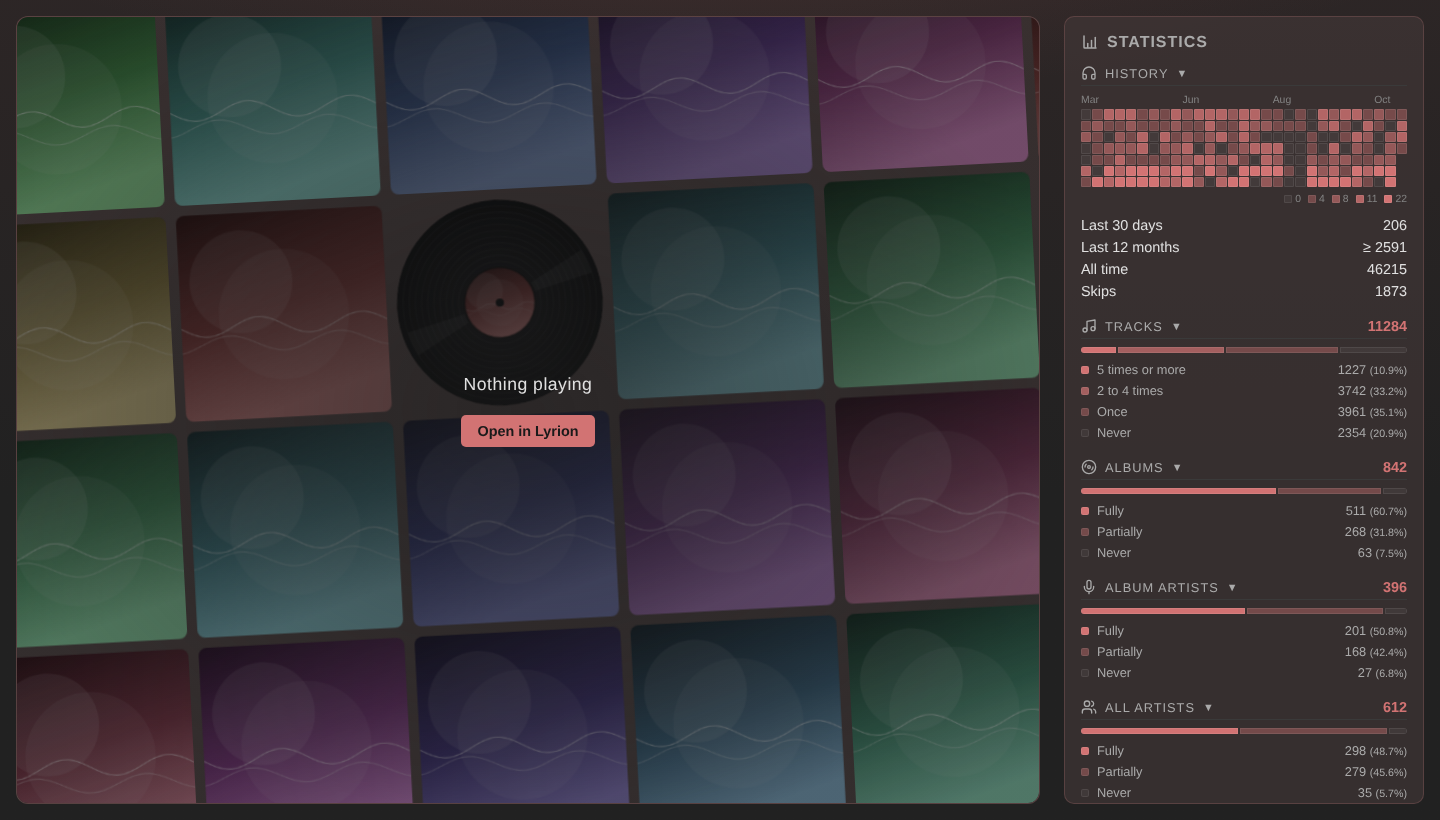
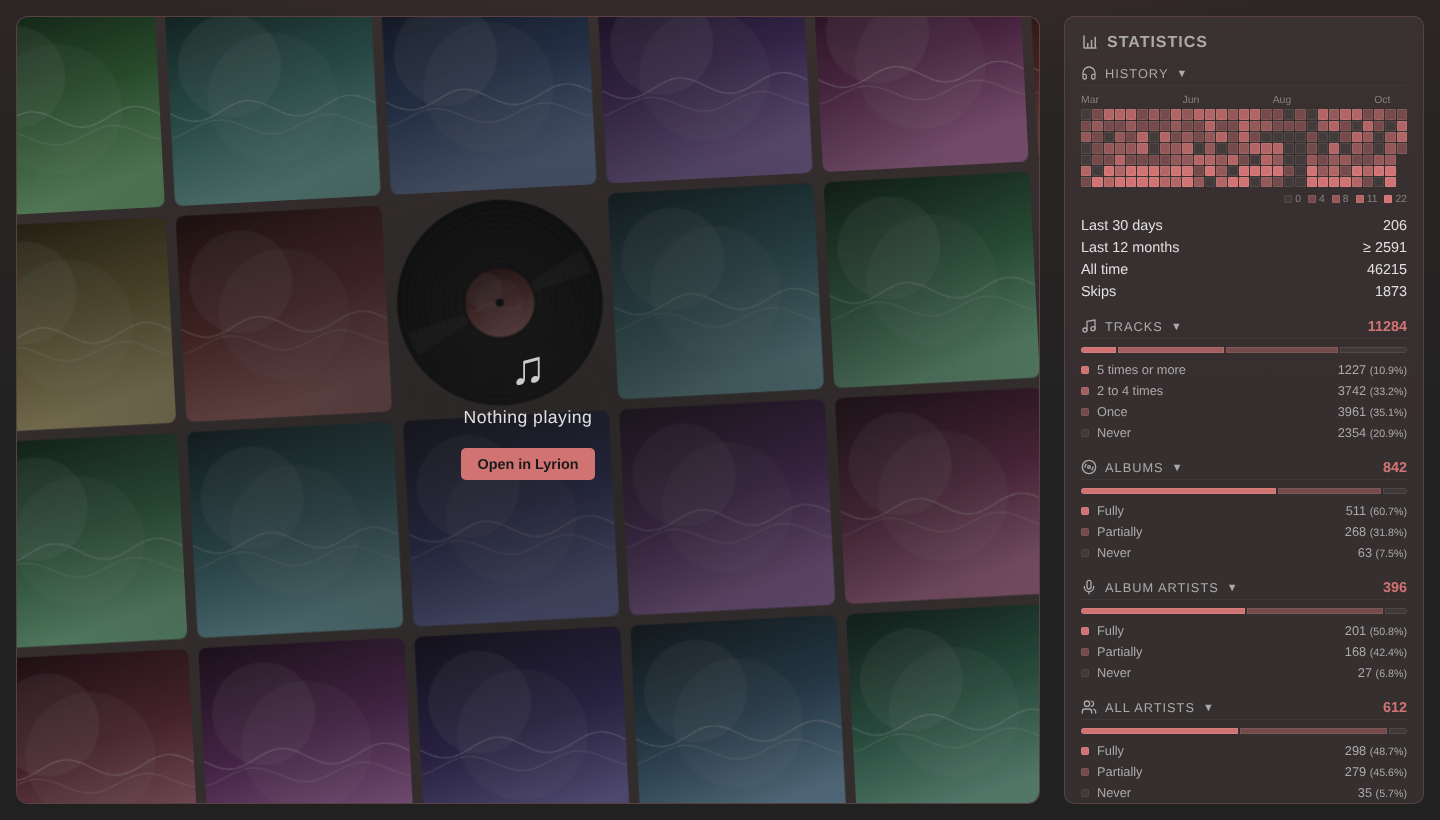
fix(nowplaying): restore the idle note glyph over the mosaic
With the sleeve gone the idle content fell back to the text and the
button alone. The music-note glyph it showed before the sleeve comes
back, exactly as on master, so the record in the belt is the only
change to the idle screen.

Claude-Session: https://claude.ai/code/session_016eBy9VYy6o4ucnsNGQp2DT

Changed region(s): [[0.3125, 0.4268, 0.4375, 0.6098]]

diff --git a/templates/nowplaying.html b/templates/nowplaying.html
@@ -102,6 +102,7 @@
                     {# Decorative cover mosaic, filled by nowplaying.js from /mosaic-covers.json. #}
                     <div class="np-empty-mosaic" id="np-empty-mosaic" aria-hidden="true"></div>
                     <div class="np-empty-content">
+                        <span class="np-empty-icon">&#9835;</span>
                         <p class="np-empty-text">{{ t.empty_state }}</p>
                         <a class="np-empty-open" id="np-empty-open"
                            href="{{ (lyrion_host ~ '/material/') if lyrion_host else '#' }}"

diff --git a/static/style.css b/static/style.css
@@ -1213,6 +1213,16 @@ body.in-app .np-pull {
         rgba(33, 33, 33, 0.1) 100%);
 }
 
+.np-empty-icon {
+    font-size: 3rem;
+    opacity: 0.6;
+}
+
+.np-empty.has-mosaic .np-empty-icon {
+    color: var(--text);
+    opacity: 0.9;
+}
+
 .np-empty-text {
     margin: 0;
     font-size: var(--fs-lg);
